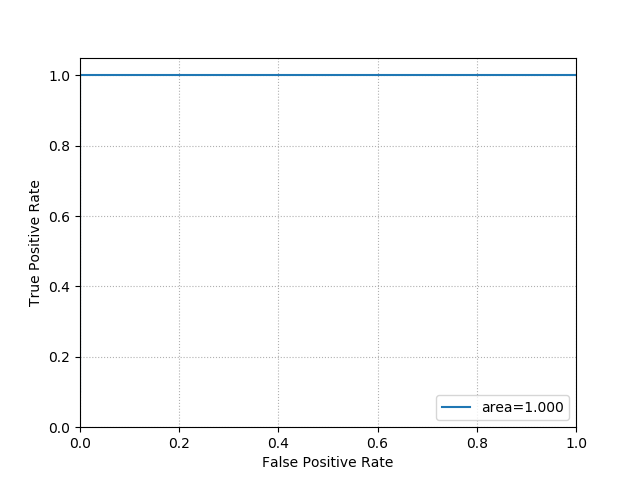
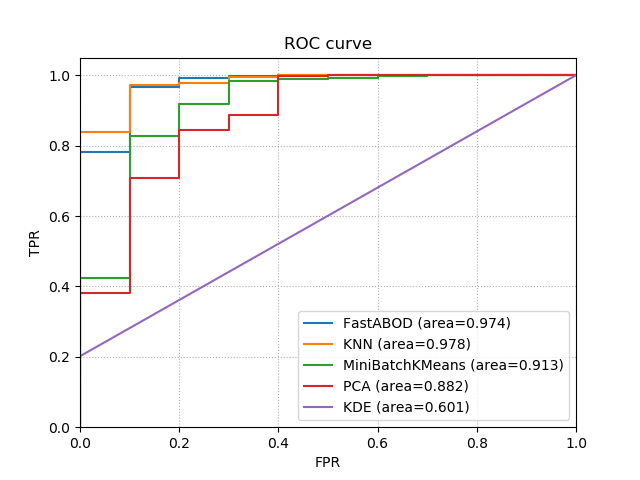
update README.rst

diff --git a/README.rst b/README.rst
@@ -56,21 +56,21 @@ Usage
 .. code:: python
 
     import matplotlib.pyplot as plt
-    from kenchi.datasets import make_blobs
-    from kenchi.outlier_detection import SparseStructureLearning
+    from kenchi.datasets import load_breast_cancer
+    from kenchi.outlier_detection import *
 
-    # Generate the training data
-    X, _ = make_blobs(centers=1, random_state=1, shuffle=False)
+    f, ax = plt.subplots()
 
-    # Fit the model according to the given training data
-    det  = SparseStructureLearning(contamination=0.02).fit(X)
+    # Load the breast cancer wisconsin dataset
+    X, y  = load_breast_cancer(random_state=0)
 
-    # Plot the anomaly score for each training sample
-    det.plot_anomaly_score(X, normalize=True, linestyle='', marker='.')
+    for det in [FastABOD(), KNN(), MiniBatchKMeans(), PCA(), KDE()]:
+        # Fit the model, and plot the ROC curve
+        det.fit(X).plot_roc_curve(X, y, ax=ax)
 
     plt.show()
 
-.. image:: https://raw.githubusercontent.com/Y-oHr-N/kenchi/master/docs/images/plot_anomaly_score.png
+.. image:: https://raw.githubusercontent.com/Y-oHr-N/kenchi/master/docs/images/plot_roc_curve.png
 
 License
 -------
